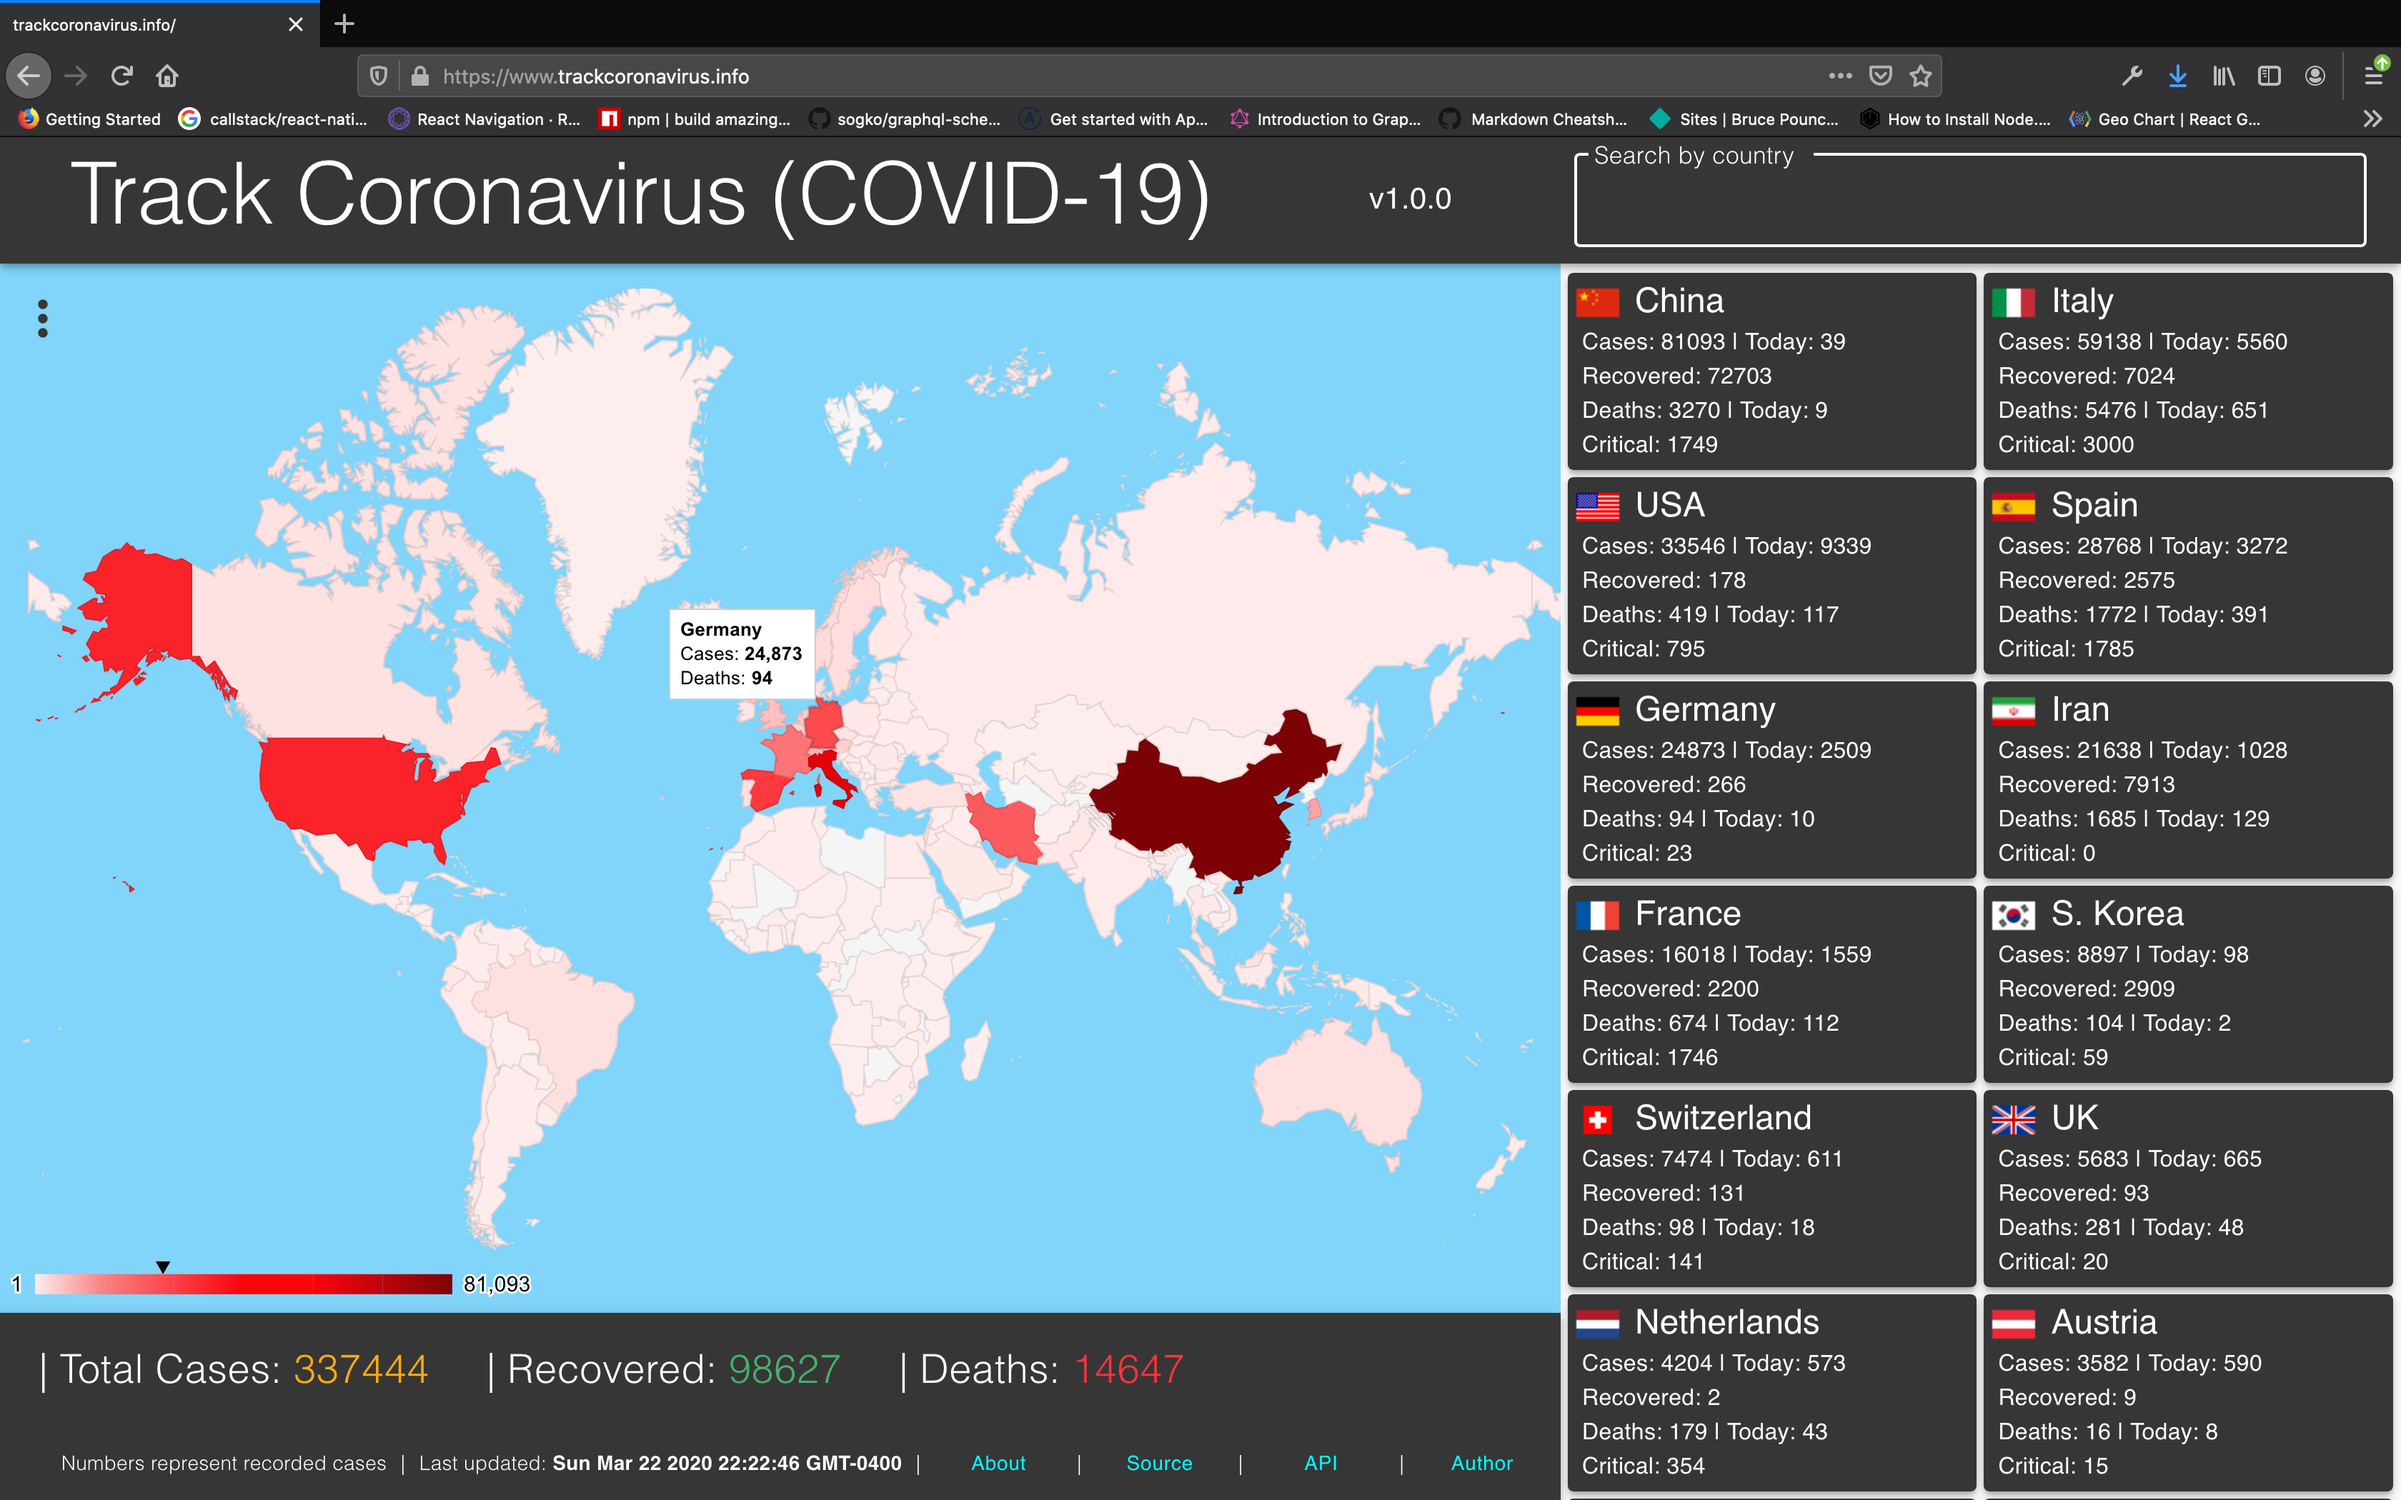
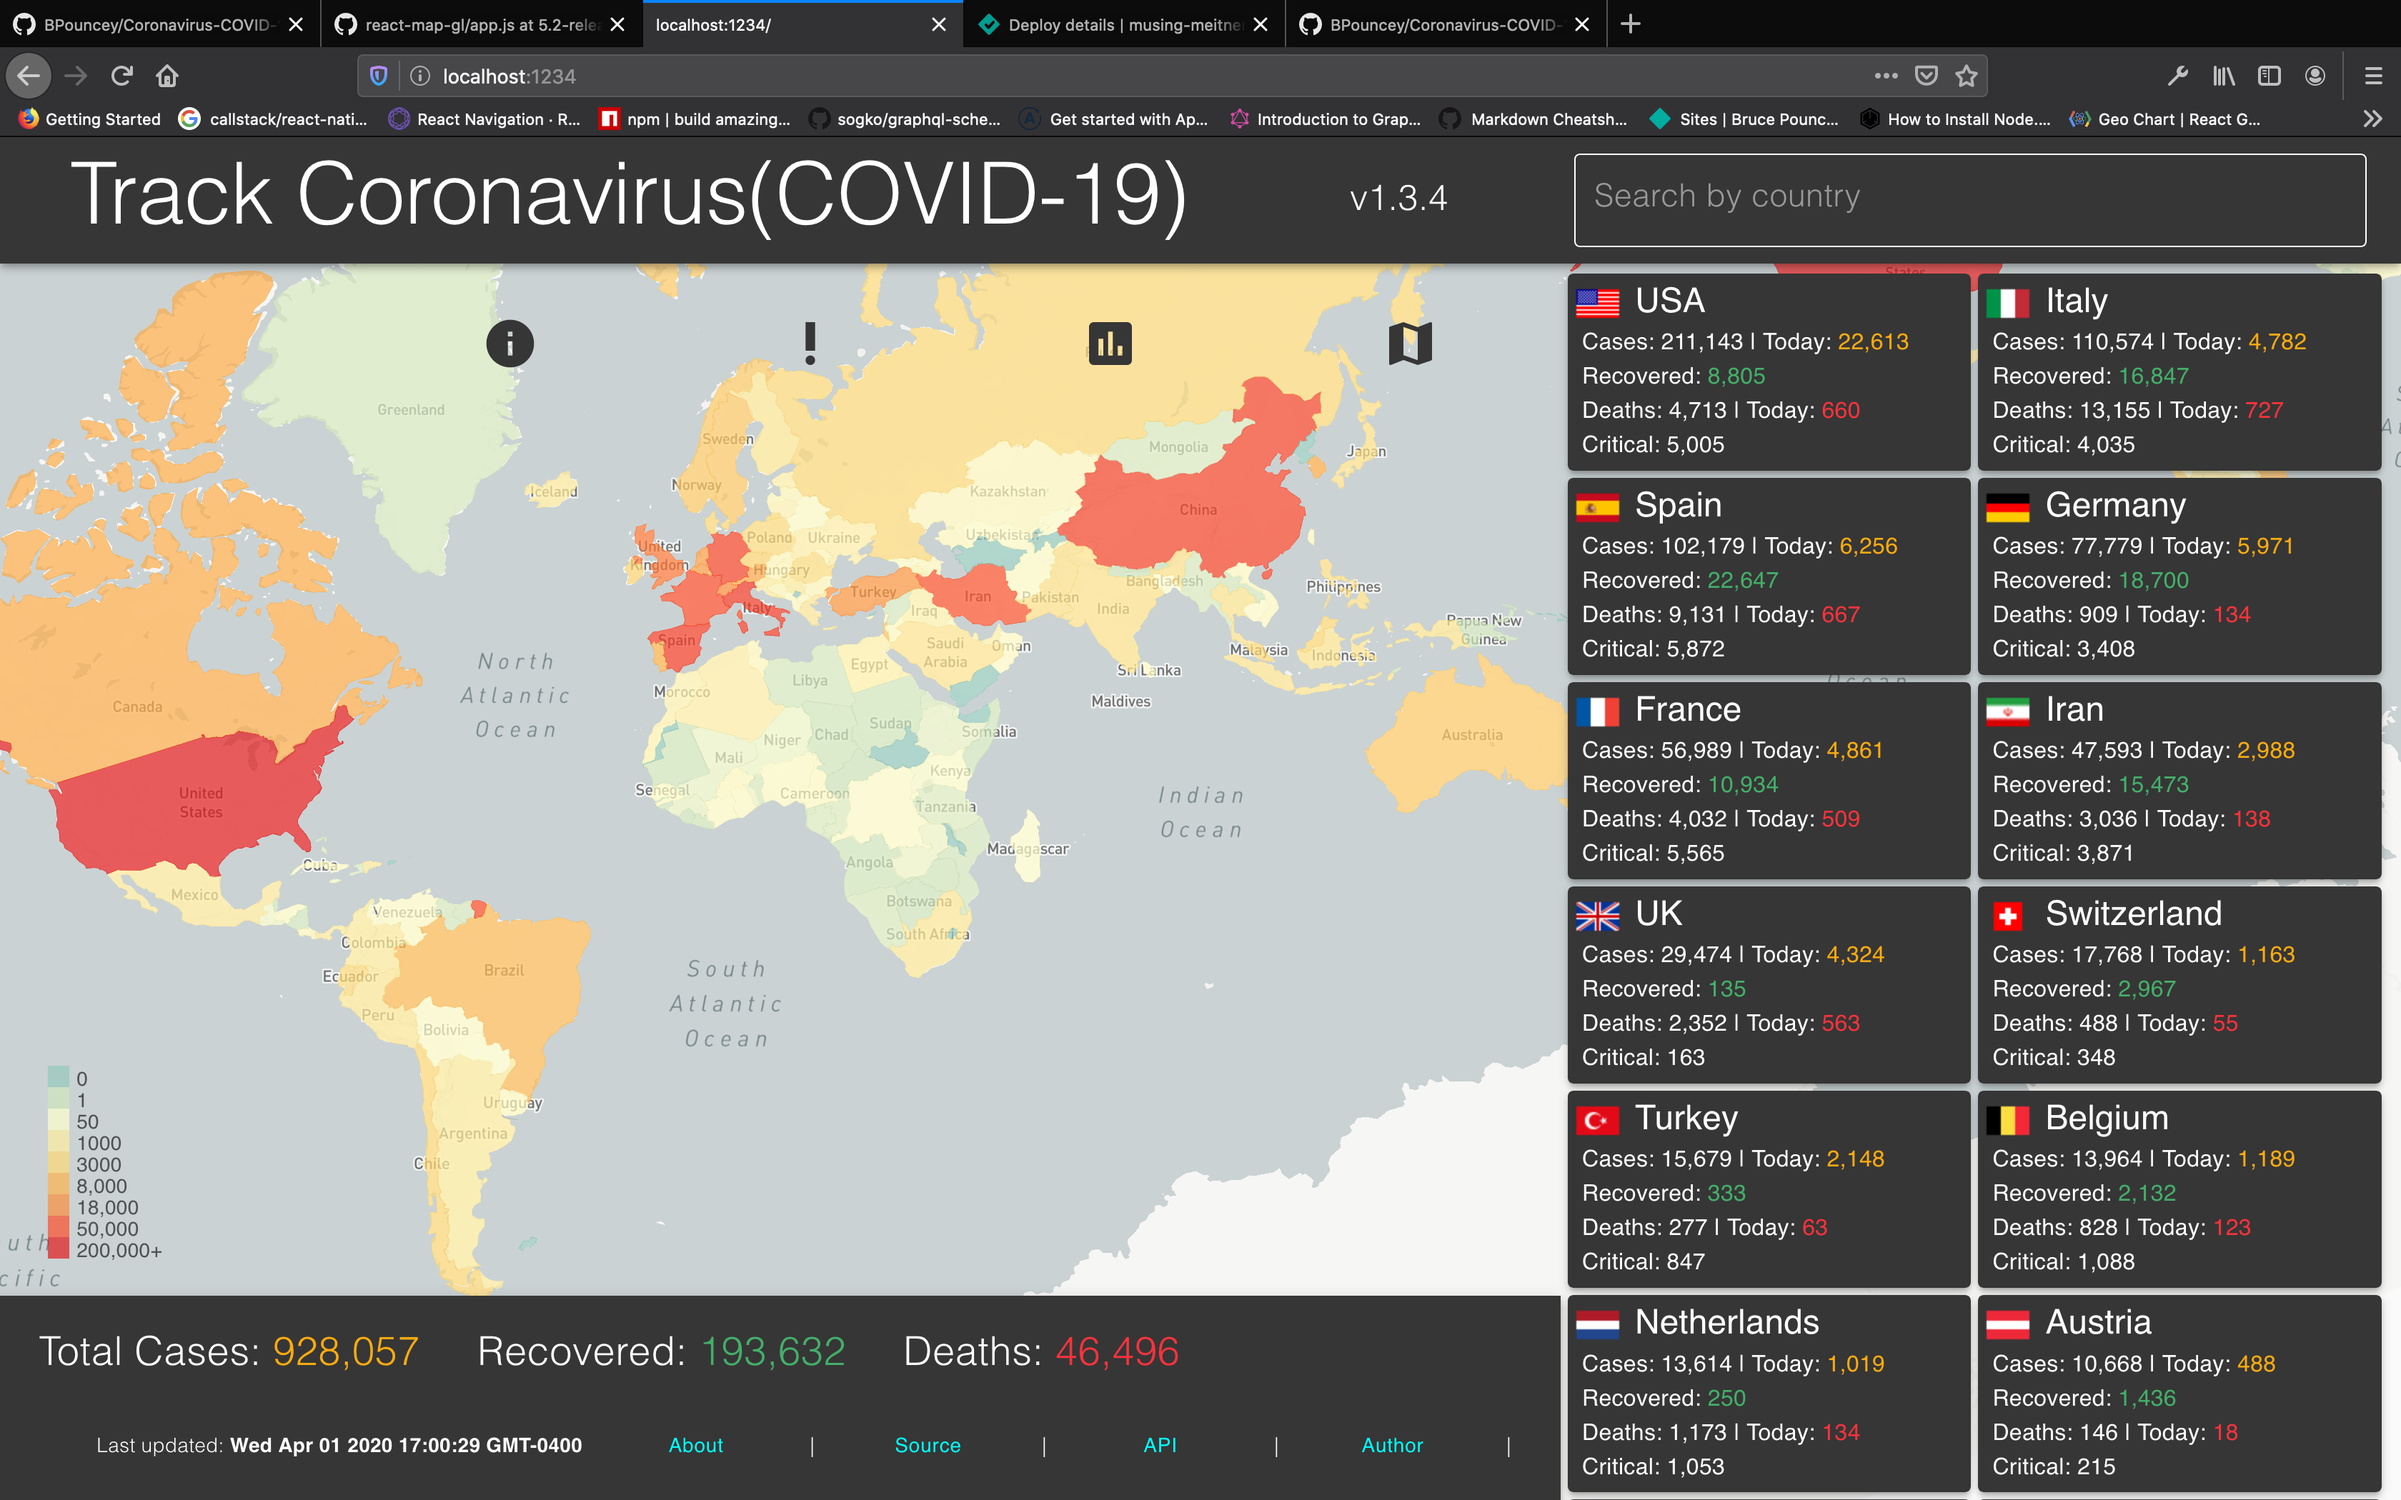
docs: updated README.md

diff --git a/src/components/countries/countries.component.js b/src/components/countries/countries.component.js
@@ -123,7 +123,7 @@ const Countries = () => {
                     <Typography className={classes.title} variant="h2" noWrap>
                         Track Coronavirus(COVID-19) 
                     </Typography>
-                    <p className={classes.version} >v1.3.4</p> 
+                    <p className={classes.version} >v1.4.1</p> 
                     <div>
                         <CssTextField
                             className={classes.textField}

diff --git a/README.md b/README.md
@@ -1,6 +1,7 @@
-# :heavy_exclamation_mark: Track Coronavirus(COVID-19) v1.3.4
+# :heavy_exclamation_mark: Track Coronavirus(COVID-19) v1.4.1
 ## [trackcoronavirus.info](https://trackcoronavirus.info) 
-![](./readme-images/readme-hero.png)
+![](./readme-images/readme-fullscreen.png)
+
 
 ### Run locally
 Clone project <br>
@@ -18,15 +19,17 @@ View at ```localhost:1234/```<br>
 ### Endpoints:
 * Map - [Google GeoCharts](https://developers.google.com/chart/interactive/docs/gallery/geochart)
 * Coronavirus(COVID-19) data - [NovelCOVID/API](https://github.com/NovelCOVID/API)
-* Country Codes - [https://datahub.io/core/country-list](https://datahub.io/core/country-list)
-* Country Flags - [https://www.countryflags.io/](https://www.countryflags.io/)
+* countryByGeo Codes - [datahub.io/core/countryByGeo-list](https://datahub.io/core/countryByGeo-list)
+* countryByGeo Flags - [countryByGeoflags.io/](https://www.countryByGeoflags.io/)
+* Mapbox - [mapbox.com](https://www.mapbox.com)
+* Geo-Json-World - [github.com/BPouncey/geo-json-world](https://github.com/BPouncey/geo-json-world)
 
 ### Media Query Breakpoints
 | Device      | Width         | Height        | 
 |:-----------:|:-------------:|:-------------:|
-| Mobile      | 320           | 568           |
+| Mobile      | 414           | 896           |
 | Tablet      | 768           | 1024          |
-| Desktop     | 1240          | 800           |
+| Desktop     | 1400          | 800           |
 
 ## API Tutorial:
 ```javascript
@@ -64,7 +67,7 @@ const Totals = () => {
         <div className={classes.root}>
             {!isLoading && (
                 data.map((item, index) => {
-                    <h3>{item.country}</h3>
+                    <h3>{item.countryByGeo}</h3>
                     <p>{item.cases}</p>
                 })
             )}
@@ -81,15 +84,47 @@ export default Totals
 Making use of the React ```useState()``` hook to make an event based search engine. <br>
 ![](./readme-images/readme.gif)
 
-### :world_map:  Interactive map
-After sorting my Promised data, I give relevant data to associated parameters, in my [GeoChart](https://developers.google.com/chart/interactive/docs/gallery/geochart), to dynammically create a real-time data visualisation of COVID-19 cases around the world <br>
-![](./readme-images/map-gif.gif)
+### :world_map:  Data Driven Styling
+Using my endpoint data, I create dynamic data driven styling to associated parameters, in my [mapbox.com](https://www.mapbox.com) / [Geo-Json](https://github.com/BPouncey/geo-json-world) / [NovelCOVID/API](https://github.com/NovelCOVID/API)) merged data to dynammically create a real-time data visualisation of COVID-19 cases around the world.<br>
+![](./readme-images/zoom.gif)
+
+``````javascript
+    const getData = async () => {
+        setLoading(true)
+        await requestJson(
+           'https://bpouncey.github.io/geo-json-world/custom.geo.json',
+            (error, response) => {
+                if ( !error ) {
+
+                response.features.map( countryByGeo => {
+                    covidData.map(countryByCovid => {
+                        if ( countryByGeo.properties.iso_a3 === countryByCovid.countryByCovid.countryInfo.iso3 ){
+
+                            countryByGeo.properties = { 
+                                ..countryByCovid, 
+                                ...countryByGeo.properties
+                             }
+                        }
+                    })
+                    if (!countryByGeo.properties.cases) {
+                        countryByGeo.properties.cases = 0
+                    }
+                })
+                setState({data: response})
+                } else { 
+                    console.log(error)
+                }
+                setLoading(false)
+            }
+        )
+    }
+``````
 
 ### :chart_with_upwards_trend: Totals display 
 ![](./readme-images/footer.png)
 
 ## :exclamation: About
-Due to the panic and fear in society I created this accesible application to provide correct infomation, on every country where data has been recorded. Please also know, the data shown is recorded infomation, unrecorded infomation will not be shown. 
+Due to the panic and fear in society I created this accesible application to provide correct infomation, on every countryByGeo where data has been recorded. Please also know, the data shown is recorded infomation, unrecorded infomation will not be shown. 
 <br>
 Track Coronavirus(COVID-19) is an independently developed, free to use web application :heavy_check_mark:
 
